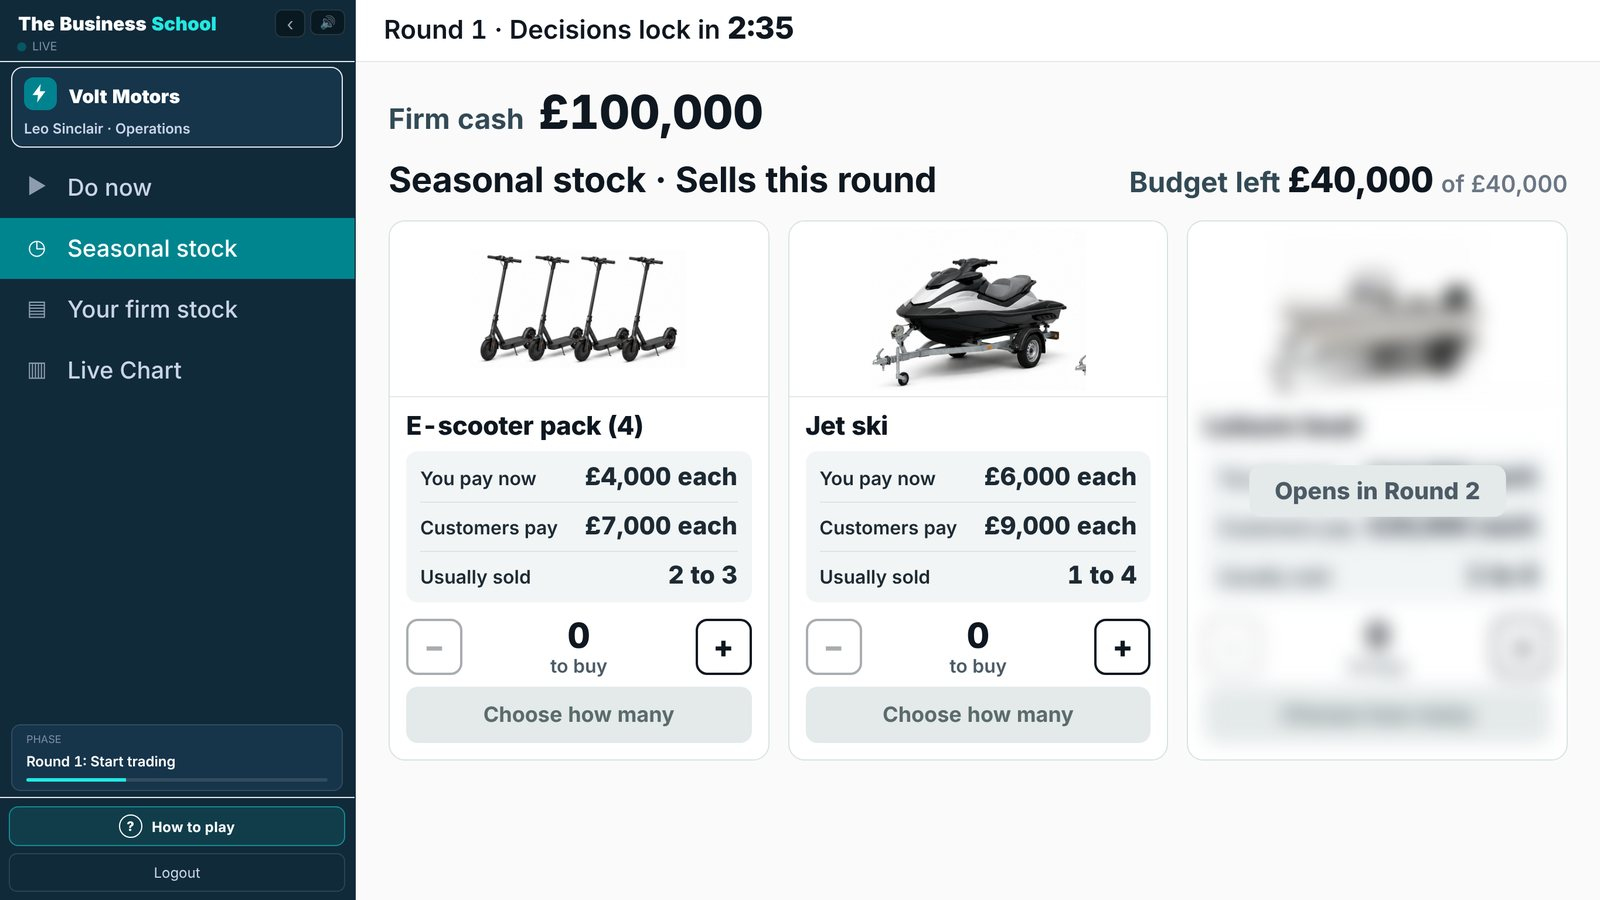
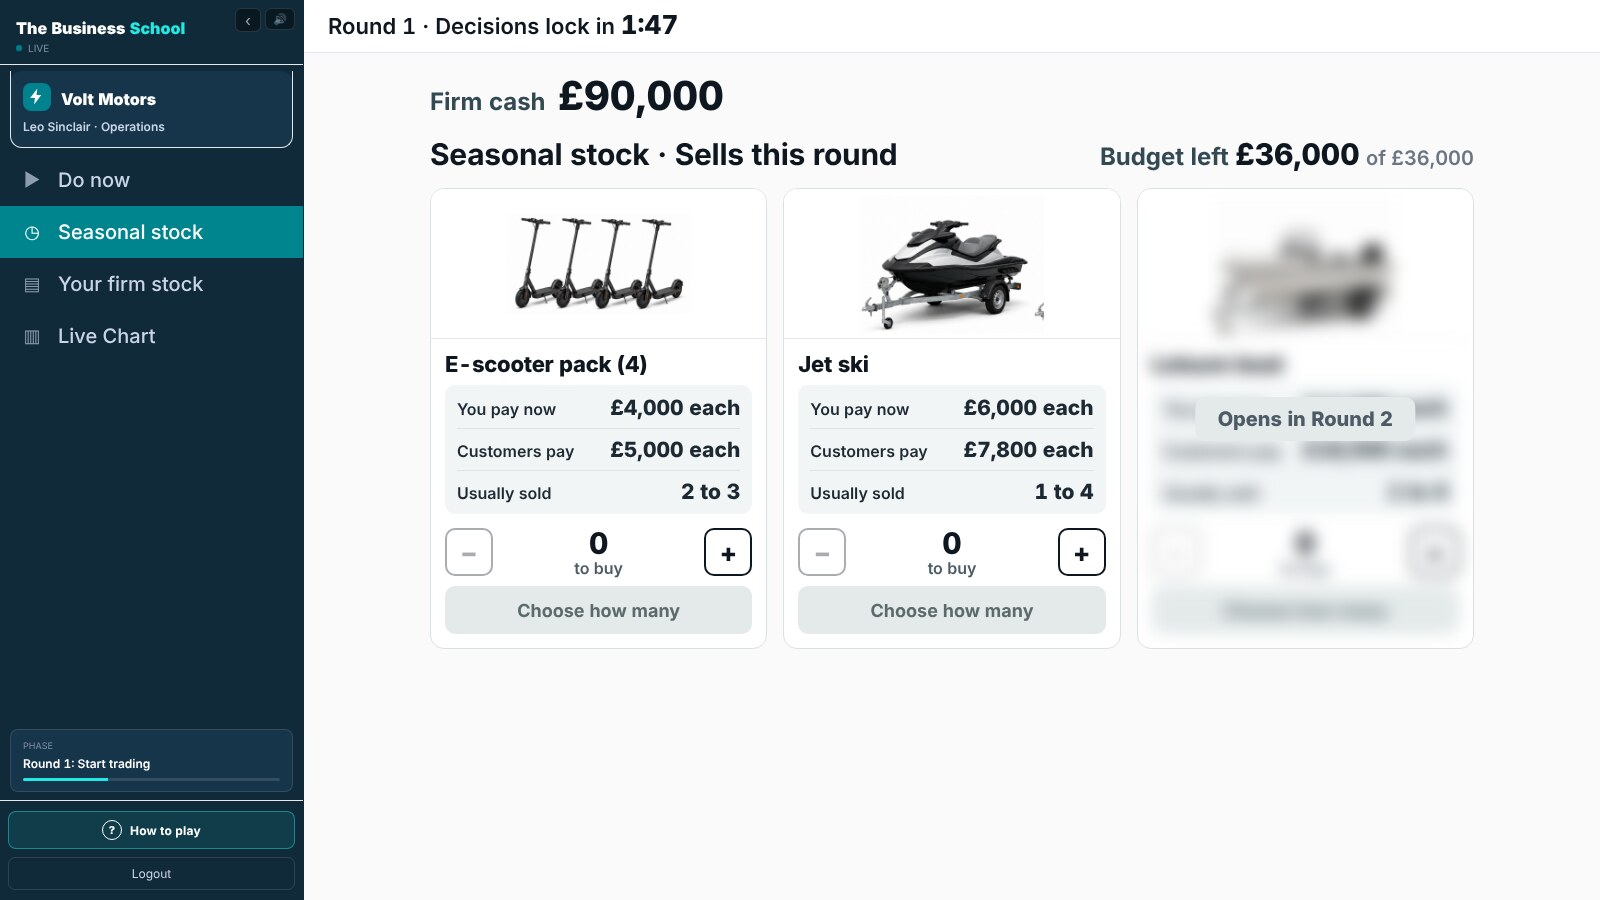
UK gallery: Seasonal stock picture with the new customer prices (publish with the game change)
Claude-Session: https://claude.ai/code/session_01Np2n7mwxyzcaQWByNZ1ReD

diff --git a/index.html b/index.html
@@ -684,7 +684,7 @@
         <figcaption>Spare cash can work, or it can fall.</figcaption>
       </figure>
       <figure class="motor-gal-item">
-        <img src="/assets/tbs-web/uk/uk-g-seasonal.jpg?v=20261110" width="1600" height="900" loading="lazy" decoding="async" alt="The Seasonal stock page: scooters, jet skis and a leisure boat, what the firm pays now and what customers pay" />
+        <img src="/assets/tbs-web/uk/uk-g-seasonal.jpg?v=20261110c" width="1600" height="900" loading="lazy" decoding="async" alt="The Seasonal stock page: scooters, jet skis and a leisure boat, what the firm pays now and what customers pay" />
         <figcaption>Operations: Seasonal stock that sells this round.</figcaption>
       </figure>
       <figure class="motor-gal-item">
